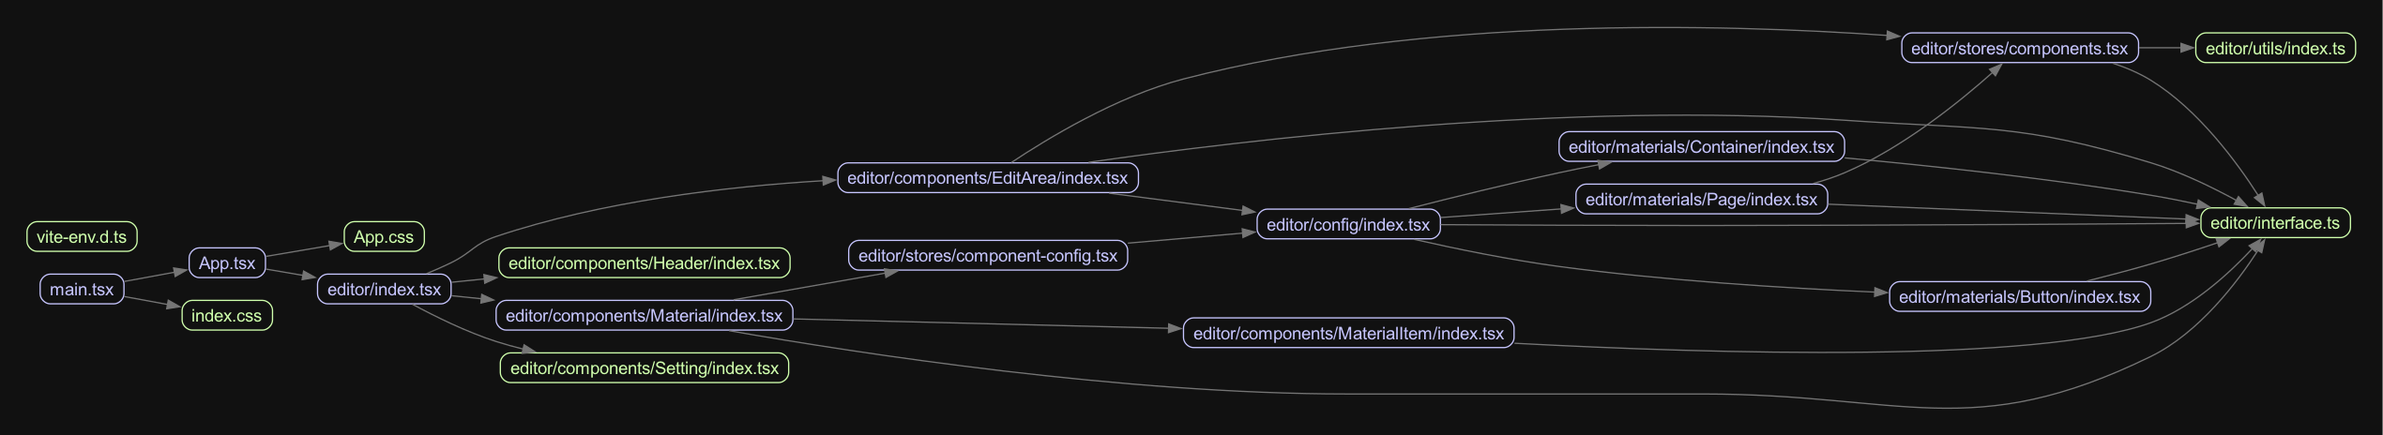
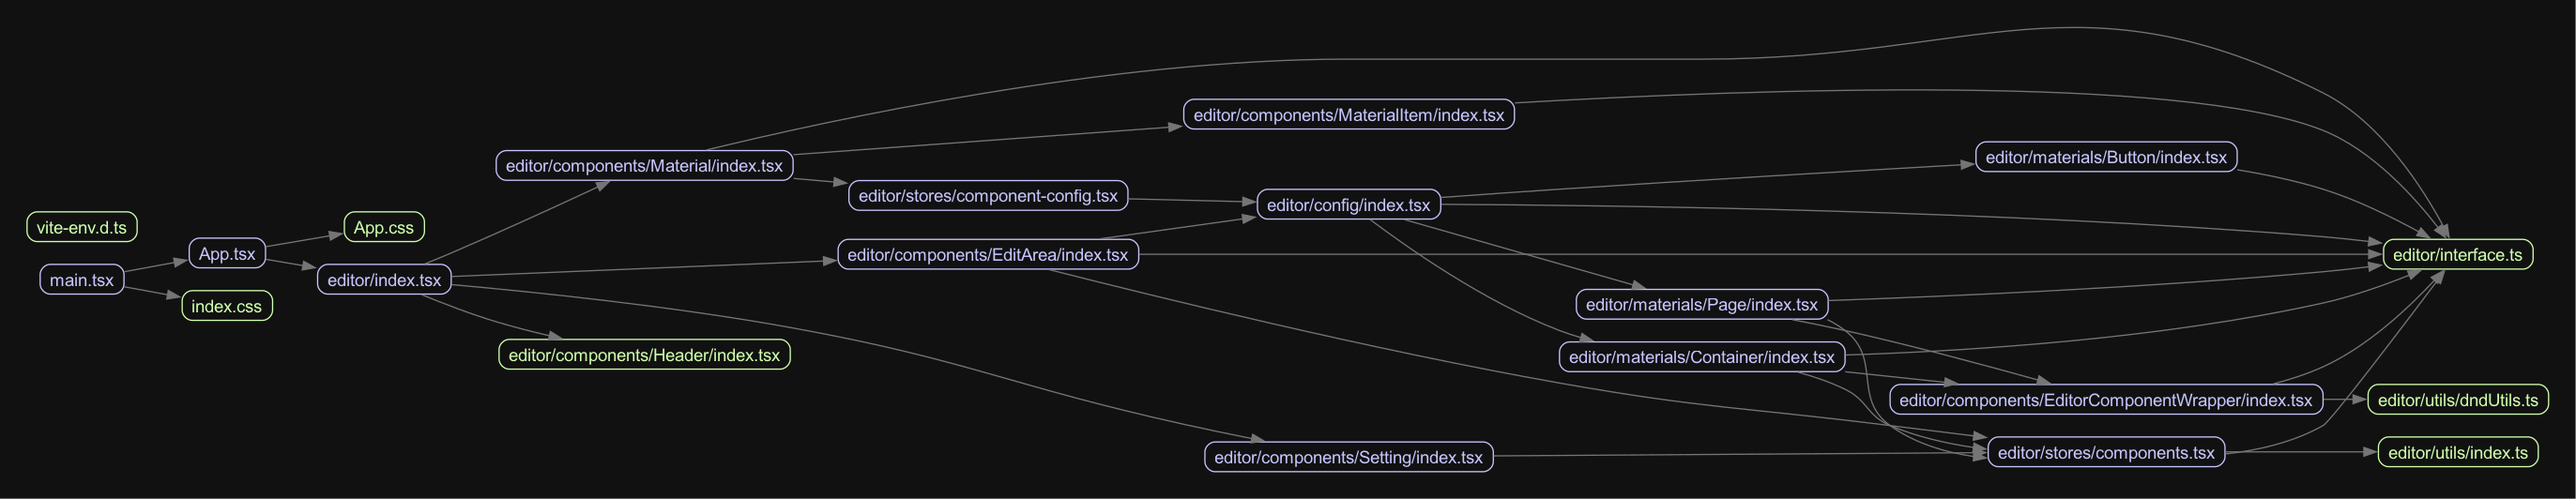
feat: hoverComponentPanel

diff --git a/lowcode-editor/src/editor/components/EditArea/index.tsx b/lowcode-editor/src/editor/components/EditArea/index.tsx
@@ -1,18 +1,21 @@
-import React from "react";
+import React, { useMemo } from "react";
 import { useComponentsStore } from "../../stores/components";
-import type {
-  ComponentDto,
-  ComponentEnum,
-  ComponentPropsList,
-  RenderComponentDto,
+import {
+  type ComponentDto,
+  type ComponentEnum,
+  type ComponentPropsList,
+  type RenderComponentDto,
 } from "../../interface";
-import { componentConfig } from "../../config";
+import { editComponentSetting } from "../../config";
+import HoverComponentPanel from "../HoverComponentPanel";
+
 export default function EditArea() {
-  const { components } = useComponentsStore();
+  const { components, hoverComponent, setHoverComponent } =
+    useComponentsStore();
 
   function renderComponents(components: ComponentDto[]): React.ReactNode {
     return components.map((component) => {
-      const config = componentConfig[component.name];
+      const config = editComponentSetting[component.name];
       const Component = config.component as React.FunctionComponent<
         ComponentPropsList[ComponentEnum]
       >;
@@ -31,11 +34,33 @@ export default function EditArea() {
     });
   }
 
+  function handleMouseOver(e: React.MouseEvent<HTMLDivElement>) {
+    const path = e.nativeEvent.composedPath();
+
+    for (let i = 0; i < path.length; i++) {
+      const element = path[i] as HTMLDivElement;
+
+      const componentId = element.dataset?.componentId;
+
+      if (componentId) {
+        setHoverComponent(componentId);
+        return;
+      }
+    }
+
+    setHoverComponent(null);
+  }
+
   return (
-    <div className="h-[100%]">
-      {/* <pre>{JSON.stringify(components, null, 2)}</pre> */}
-      {renderComponents(components)}
-    </div>
+    <>
+      <div className="h-[100%]" onMouseOver={handleMouseOver}>
+        {renderComponents(components)}
+      </div>
+      <HoverComponentPanel
+        container={document.body}
+        hoverComponent={hoverComponent}
+      />
+    </>
   );
 }
 

diff --git a/lowcode-editor/src/editor/components/HoverComponentPanel/index.tsx b/lowcode-editor/src/editor/components/HoverComponentPanel/index.tsx
@@ -1,0 +1,64 @@
+import type { ComponentDto } from "../../interface";
+import { createPortal } from "react-dom";
+import { theme } from "antd";
+import { useMemo } from "react";
+
+export interface HoverComponentPanel {
+  hoverComponent: ComponentDto;
+  container: HTMLElement;
+}
+export default function HoverComponentPanel({
+  hoverComponent,
+  container,
+}: HoverComponentPanel) {
+  const { token } = theme.useToken();
+
+  const isShow = useMemo(() => !!hoverComponent, [hoverComponent]);
+
+  const position = useMemo(() => {
+    if (!hoverComponent || !container)
+      return { left: 0, top: 0, width: 0, height: 0 };
+
+    const node = document.querySelector(
+      `[data-component-id="${hoverComponent.id}"]`,
+    );
+    if (!node) return { left: 0, top: 0, width: 0, height: 0 };
+
+    const { left, top, width, height } = node.getBoundingClientRect();
+    const { left: containerLeft, top: containerTop } =
+      container.getBoundingClientRect();
+
+    return {
+      left: left - containerLeft,
+      top: top - containerTop,
+      width,
+      height,
+    };
+  }, [hoverComponent, container]);
+
+  return createPortal(
+    isShow ? (
+      <div
+        style={{
+          position: "absolute",
+          zIndex: 1000,
+          left: position.left,
+          top: position.top,
+          width: position.width,
+          height: position.height,
+        }}
+        className="css-var-r1 pointer-events-none flex justify-center border border-solid border-[--ant-color-primary] transition-all duration-150"
+      >
+        <div
+          className="h-5 rounded-b-md px-2 text-[12px] text-white"
+          style={{
+            background: token.colorPrimary,
+          }}
+        >
+          {hoverComponent.name}
+        </div>
+      </div>
+    ) : null,
+    container,
+  );
+}

diff --git a/lowcode-editor/src/editor/stores/components.tsx b/lowcode-editor/src/editor/stores/components.tsx
@@ -11,11 +11,13 @@ import { generateId } from "../utils";
 
 interface State {
   components: ComponentDto[];
+  hoverComponent: ComponentDto | null;
 }
 interface Action {
   addComponent: (component: ComponentConfig, parentId?: ComponentId) => void;
   removeComponent: (id: ComponentId) => void;
   updateComponentProps: (id: ComponentId, props: ComponentPropsUnion) => void;
+  setHoverComponent: (componentId: ComponentId | null) => void;
 }
 
 export const useComponentsStore = create<State & Action>((set, get) => ({
@@ -28,6 +30,13 @@ export const useComponentsStore = create<State & Action>((set, get) => ({
       children: [],
     },
   ],
+  hoverComponent: null,
+
+  setHoverComponent: (componentId: ComponentId | null) => {
+    set(() => ({
+      hoverComponent: getComponentById(componentId, get().components),
+    }));
+  },
   addComponent: (
     createComponentDto: ComponentConfig,
     parentId?: ComponentId,

diff --git a/lowcode-editor/src/editor/interface.ts b/lowcode-editor/src/editor/interface.ts
@@ -30,15 +30,22 @@ export interface ComponentDto<N extends ComponentEnum = ComponentEnum> {
   parentId?: ComponentId;
   desc?: string;
 }
+/**
+ * 组件-编辑状态配置
+ * 组件编辑状态下所需的配置，如组件添加时的默认配置
+ */
 export interface ComponentConfig<T extends ComponentEnum = ComponentEnum> {
   name: T;
+  /** 组件添加时的默认 props */
   defaultProps: Partial<ComponentPropsList[T]>;
+  /** 组件-编辑状态的渲染组件 */
   component: React.FunctionComponent<ComponentPropsList[T]>;
 }
 export interface CreateComponentDto extends Omit<ComponentDto, "id"> {}
 export interface RenderComponentDto<T extends ComponentEnum = ComponentEnum>
   extends Omit<ComponentDto<T>, "children" | "props"> {}
 
+/** 组件-渲染 props 列表 */
 export interface ComponentPropsList {
   [ComponentEnum.Container]: ContainerProps;
   [ComponentEnum.Button]: ButtonProps;

diff --git a/lowcode-editor/src/editor/config/index.tsx b/lowcode-editor/src/editor/config/index.tsx
@@ -3,12 +3,17 @@ import Container from "../materials/Container";
 import Button from "../materials/Button";
 import Page from "../materials/Page";
 
-export interface ComponentConfigList {
+export interface EditComponentSettings {
   [ComponentEnum.Container]: ComponentConfig<ComponentEnum.Container>;
   [ComponentEnum.Button]: ComponentConfig<ComponentEnum.Button>;
   [ComponentEnum.Page]: ComponentConfig<ComponentEnum.Page>;
 }
-export const componentConfig: ComponentConfigList = {
+
+/**
+ * 组件-编辑状态配置
+ * 组件编辑状态下所需的配置，如组件添加时的默认配置
+ */
+export const editComponentSetting: EditComponentSettings = {
   [ComponentEnum.Container]: {
     name: ComponentEnum.Container,
     defaultProps: {},

diff --git a/lowcode-editor/src/editor/materials/Button/index.tsx b/lowcode-editor/src/editor/materials/Button/index.tsx
@@ -1,11 +1,15 @@
 import { Button as AntdButton } from "antd";
 import type { ButtonType } from "antd/es/button";
 import type { BaseComponentProps } from "../../interface";
-
 export interface ButtonProps extends BaseComponentProps {
   type: ButtonType;
   text: string;
 }
-export default function Button({ text, type }: ButtonProps) {
-  return <AntdButton type={type}>{text}</AntdButton>;
+export default function Button(props: ButtonProps) {
+  const { type, text, id } = props;
+  return (
+    <AntdButton data-component-id={id} type={type}>
+      {text}
+    </AntdButton>
+  );
 }

diff --git a/lowcode-editor/src/editor/components/EditorComponentWrapper/index.tsx b/lowcode-editor/src/editor/components/EditorComponentWrapper/index.tsx
@@ -13,6 +13,7 @@ export default function EditorComponentWrapper({
   handleDrop,
   className,
   dropOptions,
+  id,
 }: EditorComponentWrapperProps) {
   const [{ canDrop, isOverCurrent }, drop] = useDrop(
     {
@@ -29,8 +30,8 @@ export default function EditorComponentWrapper({
   return (
     <div
       ref={drop}
+      data-component-id={id}
       className={classNames(
-        "css-var-r1 border border-[#000] p-[20px]",
         {
           "can-drop": canDrop,
           "over-current": canDrop && isOverCurrent,

diff --git a/lowcode-editor/src/editor/stores/component-config.tsx b/lowcode-editor/src/editor/stores/component-config.tsx
@@ -1,10 +1,10 @@
 import { create } from "zustand";
-import { componentConfig, type ComponentConfigList } from "../config";
+import { editComponentSetting, type EditComponentSettings } from "../config";
 
 export interface State {
-  componentConfig: ComponentConfigList;
+  componentConfig: EditComponentSettings;
 }
 export interface Action {}
 export const useComponentConfigStore = create<State & Action>(() => ({
-  componentConfig: componentConfig,
+  componentConfig: editComponentSetting,
 }));

diff --git a/lowcode-editor/src/editor/materials/Container/index.tsx b/lowcode-editor/src/editor/materials/Container/index.tsx
@@ -23,9 +23,9 @@ export default function Container(props: ContainerProps) {
   return (
     <EditorComponentWrapper
       handleDrop={handleDrop}
+      className="min-h-[100px]"
       dropOptions={{ accept: [ComponentEnum.Button, ComponentEnum.Container] }}
       {...props}
-      className="min-h-[100px]"
     >
       {children}
     </EditorComponentWrapper>

diff --git a/lowcode-editor/src/editor/index.tsx b/lowcode-editor/src/editor/index.tsx
@@ -7,7 +7,7 @@ import Setting from "./components/Setting";
 
 export default function Editor() {
   return (
-    <div className="flex h-[100vh] flex-col">
+    <div className="css-var-r1 flex h-[100vh] flex-col">
       <div className="flex h-[60px] items-center border-b-[1px] border-[#000]">
         <Header />
       </div>

diff --git a/lowcode-editor/src/editor/materials/Page/index.tsx b/lowcode-editor/src/editor/materials/Page/index.tsx
@@ -18,8 +18,10 @@ export default function Page(props: PageProps) {
 
   return (
     <EditorComponentWrapper
+      data-component-id={id}
       handleDrop={handleDrop}
       dropOptions={{ accept: [ComponentEnum.Button, ComponentEnum.Container] }}
+      className="p-5"
       {...props}
     >
       {children}

diff --git a/lowcode-editor/src/editor/components/Setting/index.tsx b/lowcode-editor/src/editor/components/Setting/index.tsx
@@ -1,3 +1,11 @@
+import { useComponentsStore } from "../../stores/components";
+
 export default function Setting() {
-  return <div>Setting</div>;
+  const { components } = useComponentsStore();
+
+  return (
+    <div>
+      <pre>{JSON.stringify(components, null, 2)}</pre>
+    </div>
+  );
 }
